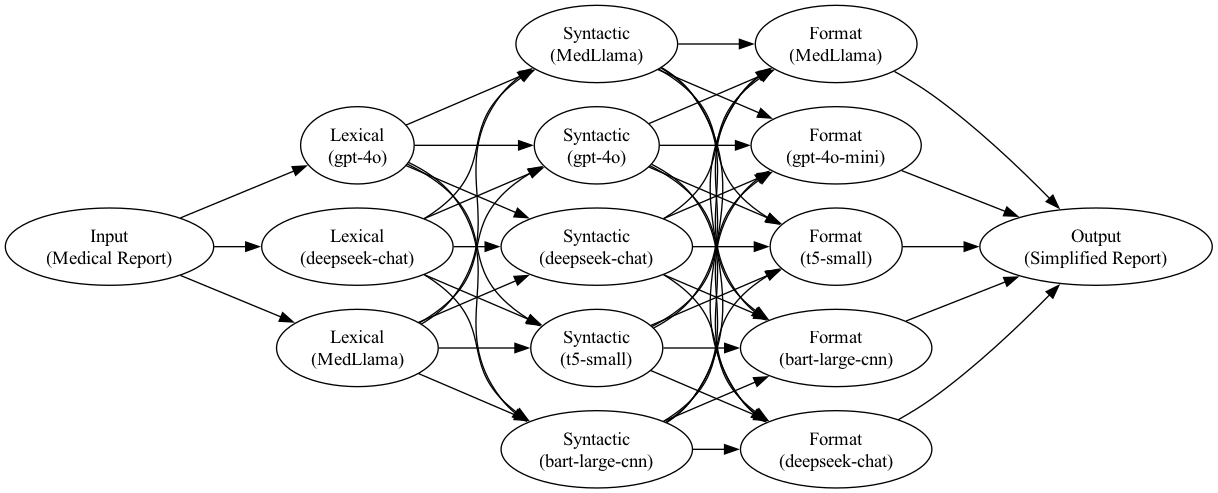
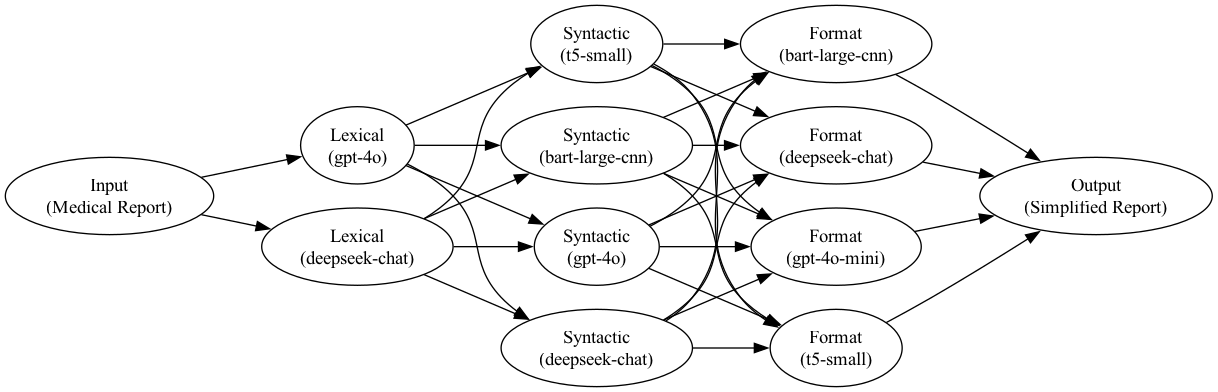
update models

diff --git a/pipelines/model_classes/(obsolete)medllama3-v20-GGUF.py b/pipelines/model_classes/(obsolete)medllama3-v20-GGUF.py
@@ -1,0 +1,67 @@
+# huggingface-cli download tensorblock/medllama3-v20-GGUF \
+#   --include "medllama3-v20-Q2_K.gguf" \
+#   --local-dir ./model_weights \
+#   --local-dir-use-symlinks False
+
+# above cell downloads the test run model weights. smallest, significant quality loss - not recommended for most purposes
+
+# reference: https://huggingface.co/tensorblock/medllama3-v20-GGUF
+# next step: medllama3-v20-Q5_K_S.gguf
+
+from llama_cpp import Llama
+import os
+
+class MedLLaMA3GGUF:
+    """
+    A wrapper for tensorblock/medllama3-v20 GGUF model running via llama-cpp-python.
+    """
+
+    def __init__(self, model_path="./model_weights/medllama3-v20-Q2_K.gguf", n_ctx=2048):
+        if not os.path.exists(model_path):
+            raise FileNotFoundError(f"Model file not found: {model_path}")
+        
+        print(f"Loading model from {model_path}...")
+        self.llm = Llama(model_path=model_path, n_ctx=n_ctx)
+
+    def _generate(self, prompt: str, max_tokens=256) -> str:
+        full_prompt = (
+            f"Human: {prompt}<|eot_id|>\n"
+            f"Assistant:"
+        )
+        response = self.llm(full_prompt, max_tokens=max_tokens, stop=["<|eot_id|>"])
+        return response["choices"][0]["text"].strip()
+
+    def lexical_simplification(self, term: str) -> str:
+        prompt = f"Explain the medical term '{term}' in simple language for a patient."
+        return self._generate(prompt)
+
+    def syntactic_simplification(self, text: str) -> str:
+        prompt = f"Rewrite the following explanation using shorter, simpler sentences:\n{text}"
+        return self._generate(prompt)
+
+    def format_summarization(self, text: str) -> str:
+        prompt = f"Summarize and organize the explanation clearly and concisely:\n{text}"
+        return self._generate(prompt)
+
+    def simplify(self, term: str) -> dict:
+        print("[Stage 1] Lexical Simplification")
+        lex = self.lexical_simplification(term)
+
+        print("[Stage 2] Syntactic Simplification")
+        synt = self.syntactic_simplification(lex)
+
+        print("[Stage 3] Format Summarization")
+        formatted = self.format_summarization(synt)
+
+        return {
+            "lexical": lex,
+            "syntactic": synt,
+            "formatted": formatted,
+        }
+
+# Example usage
+if __name__ == "__main__":
+    model = MedLLaMA3GGUF()
+    term = "acute myocardial infarction"
+    result = model.lexical_simplification(term)
+    print(result)

diff --git a/pipelines/model_classes/BartLargeCNNLocal.py b/pipelines/model_classes/BartLargeCNNLocal.py
@@ -54,9 +54,9 @@ class BartLargeCNNLocal:
 
 if __name__ == "__main__":
     model = BartLargeCNNLocal()
-    input_text = "The patient experienced a myocardial infarction and was prescribed acetylsalicylic acid."
-    result = model.simplify(input_text)
-    print(result["formatted"])
+    # input_text = "The patient experienced a myocardial infarction and was prescribed acetylsalicylic acid."
+    # result = model.simplify(input_text)
+    # print(result["formatted"])
 
 '''
 Simplify the medical jargon in the following text using layman-friendly terms. The patient experienced a myocardial infarction and was prescribed acetylsalicylic acid. Restructure and summarize the following medical text into clean, readable paragraphs: 

diff --git a/pipelines/model_classes/README.md b/pipelines/model_classes/README.md
@@ -6,7 +6,14 @@ class DeepSeekChatAPI
 class GPT4oMiniAPI
 class T5LargeLocal
 class BartLargeCNNLocal
-class MedLlamaLocal
+
 ```
 
 Each class contains 4 simplifier methods.
+
+obsolete:
+OpenHermesMistral7BLocal (disk offload due to 7B params)
+class MedLlamaLocal (gated repo, requires perm at run time)
+razent/SciFive-Large-Pubmed_PMC (published in 2021)
+biomistral (gated repo)
+medllama3-v20-GGUF (too slow, quantize + GPU required; not for dev env)
